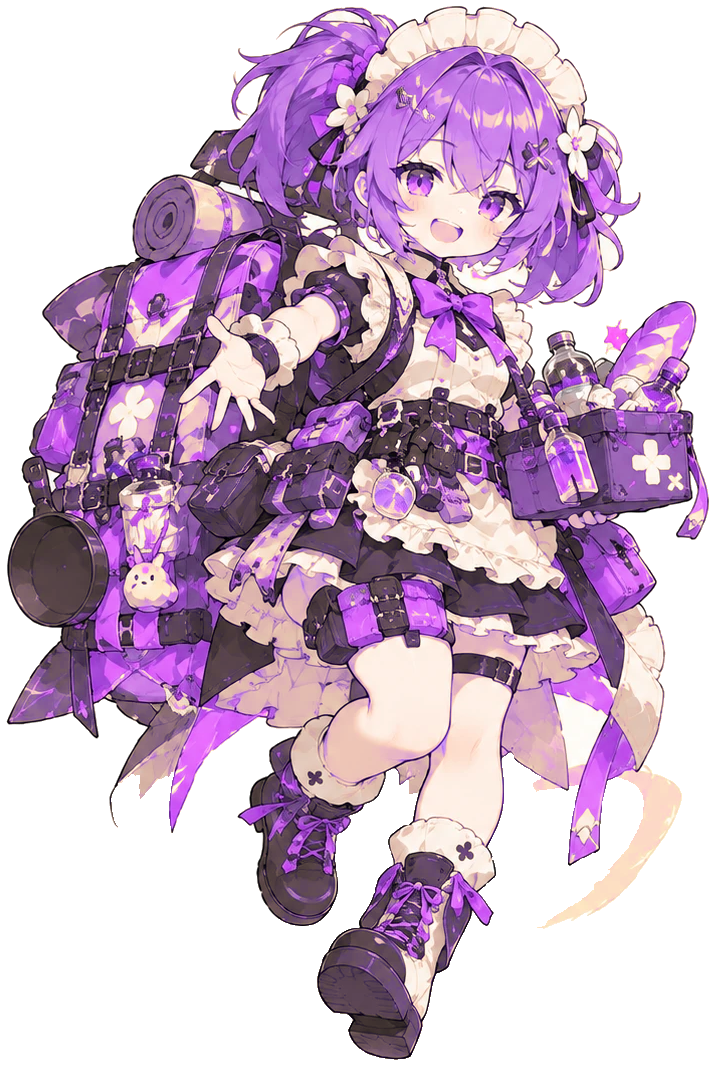
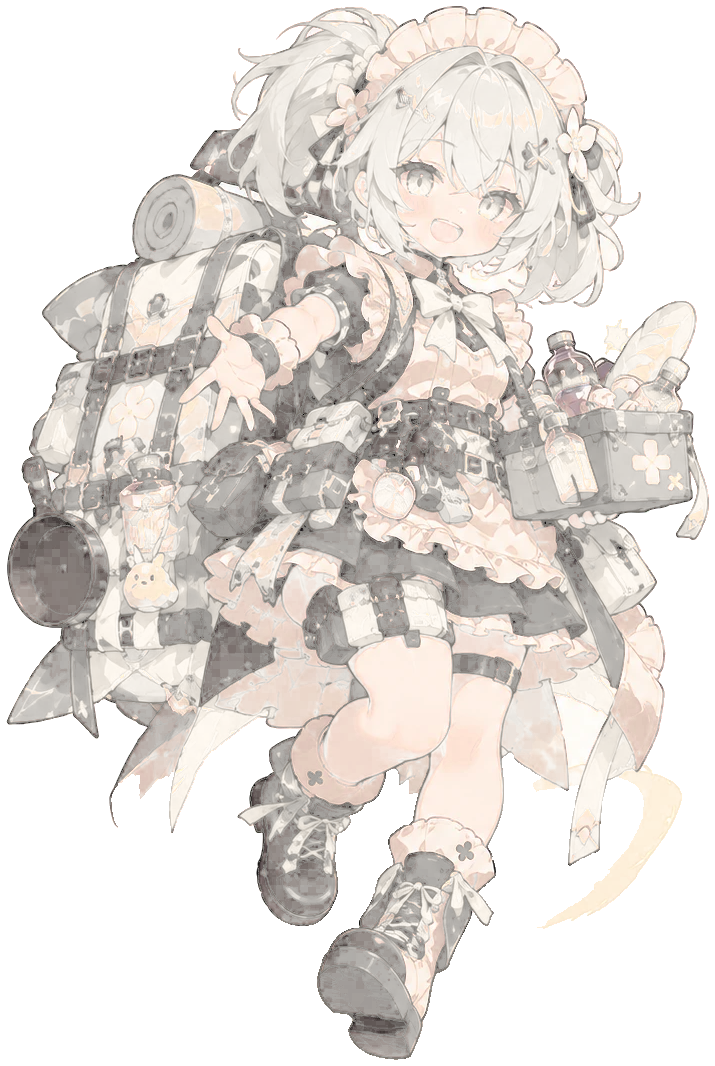
Recolour the supply depot character white
Same blend as before with different numbers: hue 35, saturation cut to a
tenth, value lifted 45% of the way to white. Her hair, dress and packs
read as white and silver-grey, her skin and the cream frills still keep
their own colour.

The ivory and cool-white variants are in the same script if the neutral
one turns out wrong; the cool one sits close to the ice tower's palette,
which is why it is not the one shipped.

Claude-Session: https://claude.ai/code/session_018UsErY9cojSUdfmULNsdxZ

diff --git a/src/ui/chars.jsx b/src/ui/chars.jsx
@@ -33,7 +33,7 @@ export const TOWER_CHARACTERS = {
   },
   supply: {
     src: "/assets/characters/supply-tower.webp",
-    alt: "보급소 캐릭터 — 보급 가방을 멘 보라 머리의 지원병",
+    alt: "보급소 캐릭터 — 보급 가방을 멘 흰빛 차림의 지원병",
   },
   frost: {
     src: "/assets/characters/frost-tower.webp",

diff --git a/design/characters/README.md b/design/characters/README.md
@@ -22,10 +22,12 @@
 서리탑은 흰 머리와 흰 옷이 연한 하늘색 배경과 색이 거의 같습니다.
 그래서 색이 아니라 윤곽선을 벽으로 삼아 배경을 흘려 채우는 방식으로 떼어 냈습니다.
 
-보급소는 요청에 따라 주황 계열을 #BB88D6(색상각 279도)으로 옮겼습니다. 유일하게 색을 바꾼 캐릭터입니다.
+보급소는 요청에 따라 주황 계열을 흰빛으로 바꿨습니다. 유일하게 색을 바꾼 캐릭터입니다.
 `recolor.py` 가 그 코드입니다. 색상각을 조금씩 돌리면 중간에 초록을 지나가므로,
-색상각을 통째로 옮긴 그림을 따로 만들어 원본과 RGB에서 섞습니다. 섞는 비율은 채도로 정합니다.
-채도 0.24 아래(살갗·흰 프릴)는 그대로 두고 0.42 위(머리·옷·가방)는 온전히 바꿉니다.
+목표 색으로 통째로 옮긴 그림을 따로 만들어 원본과 RGB에서 섞습니다. 섞는 비율은 채도로 정합니다.
+채도 0.16 아래(살갗·흰 프릴)는 그대로 두고 0.36 위(머리·옷·가방)는 온전히 바꿉니다.
+지금 쓰는 값은 색상각 35도, 채도 ×0.10, 명도를 남은 만큼의 45% 끌어올린 '순백'입니다.
+한 번 #BB88D6(색상각 279도) 보라로도 만들어 봤고, 같은 코드에서 값만 바꾸면 됩니다.
 
 중력탑은 배경에 커다란 창백한 구체가 깔려 있어 배경만 흘려 채우면 같이 남습니다.
 저격탑처럼 어두운 부분(밝기 170 미만)만 남기는 방식으로 떼어 냈습니다. 구체는 창백해서 빠지고,
